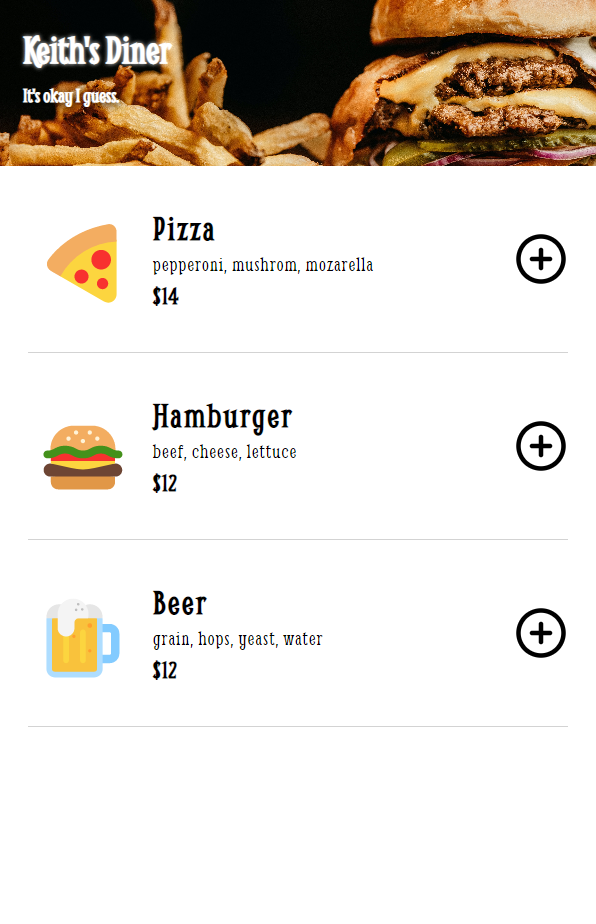
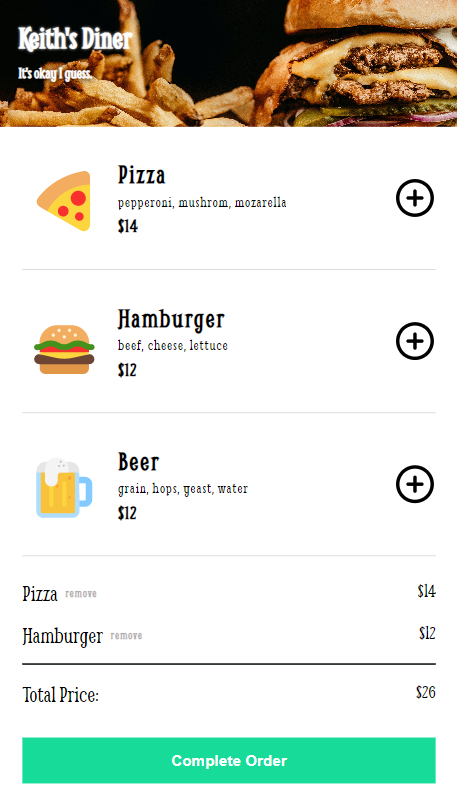
Finished layout for projects section

diff --git a/index.html b/index.html
@@ -138,41 +138,61 @@
           </div>
           <div class="portfolio-card">
             <img
-              src="images/Hikefinder-screenshot.png"
+              src="images/Ordering-App-screenshot.png"
               class="screenshot"
-              alt="picture of the trails in the Hikefinder app"
+              alt="picture of the ordering app"
             />
-            <a href="#">Hikefinder</a>
+            <a href="#">Ordering App</a>
             <p class="project-description">
-              This app demonstrates the use of responsive design to change the
-              layout of the webpages.
+              This app lets the user select food items for purchase and then
+              asks for their payment information to complete the order.
             </p>
           </div>
           <div class="portfolio-card">
             <img
-              src="images/Hikefinder-screenshot.png"
+              src="images/Learning-Journal-Screenshot.png"
               class="screenshot"
-              alt="picture of the trails in the Hikefinder app"
+              alt="picture of the learning journal app"
             />
-            <a href="#">Hikefinder</a>
+            <a href="#">Learning Journal</a>
             <p class="project-description">
-              This app demonstrates the use of responsive design to change the
-              layout of the webpages.
+              This project demonstrates another example of the use of responsive
+              design to change the layout of the webpages.
             </p>
           </div>
           <div class="portfolio-card">
             <img
-              src="images/Hikefinder-screenshot.png"
+              src="images/Salesboard-Screenshot.png"
               class="screenshot"
-              alt="picture of the trails in the Hikefinder app"
+              alt="picture of the salesboard app"
             />
-            <a href="#">Hikefinder</a>
+            <a href="#">Salesboard</a>
             <p class="project-description">
-              This app demonstrates the use of responsive design to change the
-              layout of the webpages.
+              This app allows the user to record 2 types of sales. It then
+              records and displays the achievements, revenue, and commission.
             </p>
           </div>
         </div>
+        <p class="portfolio-bottom-description">
+          If you like my work and would like to collaborate, please feel free to
+          reach out to me anytime.
+        </p>
+        <button type="button" class="btn">Get in touch with me</button>
+      </div>
+    </section>
+
+    <section class="contact">
+      <div class="contact-info-container">
+        <h2 class="contact-form-title">Have me come work for you.</h2>
+        <p class="contact-form-subtitle">
+          Fill out the form below and I will reach out to you shortly.
+        </p>
+        <form class="contact-form">
+          <input type="text" placeholder="Name" />
+          <input type="text" placeholder="Email" />
+          <input type="text" placeholder="Subject" />
+          <textarea placeholder="Message"></textarea>
+        </form>
       </div>
     </section>
   </body>

diff --git a/index.css b/index.css
@@ -159,3 +159,32 @@ a {
 .project-description {
   padding: 0 1em;
 }
+
+.portfolio-bottom-description {
+  margin-top: 2em;
+}
+
+/* --------------------- Contact Form ----------------------- */
+
+.contact {
+  background-color: #303030;
+  color: #999999;
+  text-align: center;
+}
+
+.contact-info-container {
+  width: 70%;
+  margin: 0 auto;
+}
+
+.contact-form-title {
+  margin: 0;
+  padding-top: 1em;
+  color: #FFFFFF;
+}
+
+.contact-form input, textarea {
+  width: 100%;
+  margin-bottom: 1em;
+}
+
